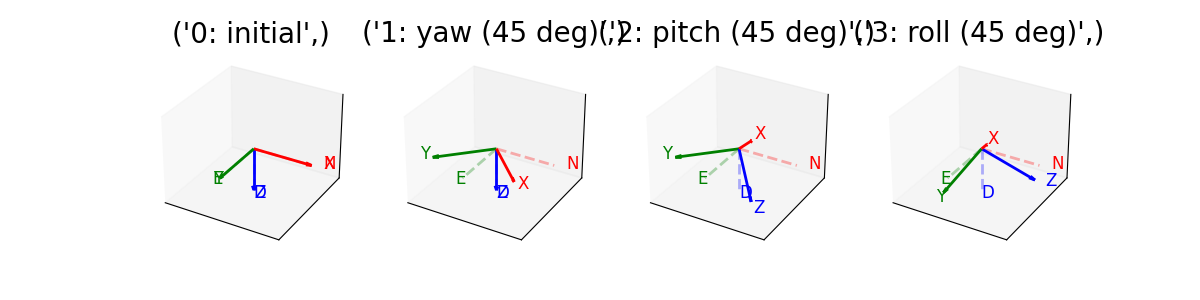
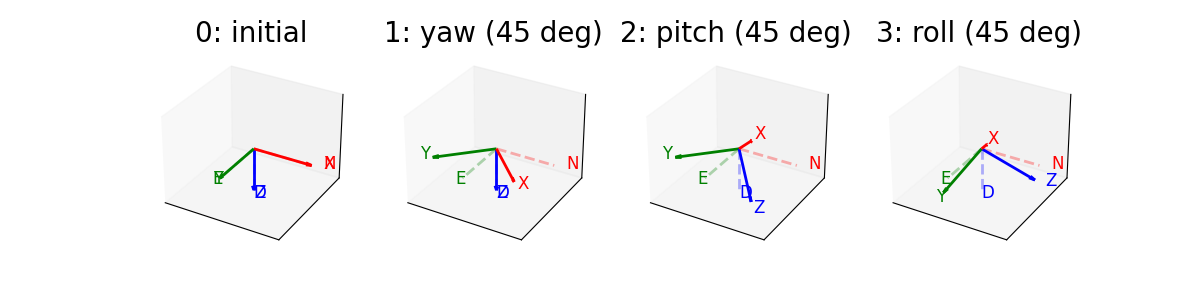
wip

Changed region(s): [[0.3083, 0.06, 0.925, 0.18], [0.1542, 0.06, 0.2775, 0.15]]

diff --git a/examples/quaternion.py b/examples/quaternion.py
@@ -39,7 +39,7 @@ if __name__ == "__main__":
     ]
     q_acc_list = right_fold_accumulate(q_list, quat_mul)
     fig = plt.figure(figsize=(12, 3))
-    for i, (name) in enumerate(zip(names)):
+    for i, name in enumerate(names):
         ax = fig.add_subplot(1, 4, i + 1, projection="3d")
         ax.set_title(name, fontsize=20)
         plot_inertial_frame(ax=ax)

diff --git a/examples/rotation_vector.py b/examples/rotation_vector.py
@@ -29,7 +29,7 @@ if __name__ == "__main__":
     ]
     R_list = right_fold_accumulate_rot(rotvec_list)
     fig = plt.figure(figsize=(12, 3))
-    for i, (name) in enumerate(zip(names)):
+    for i, (name) in enumerate(names):
         ax = fig.add_subplot(1, 4, i + 1, projection="3d")
         ax.set_title(name, fontsize=20)
         plot_inertial_frame(ax=ax)
